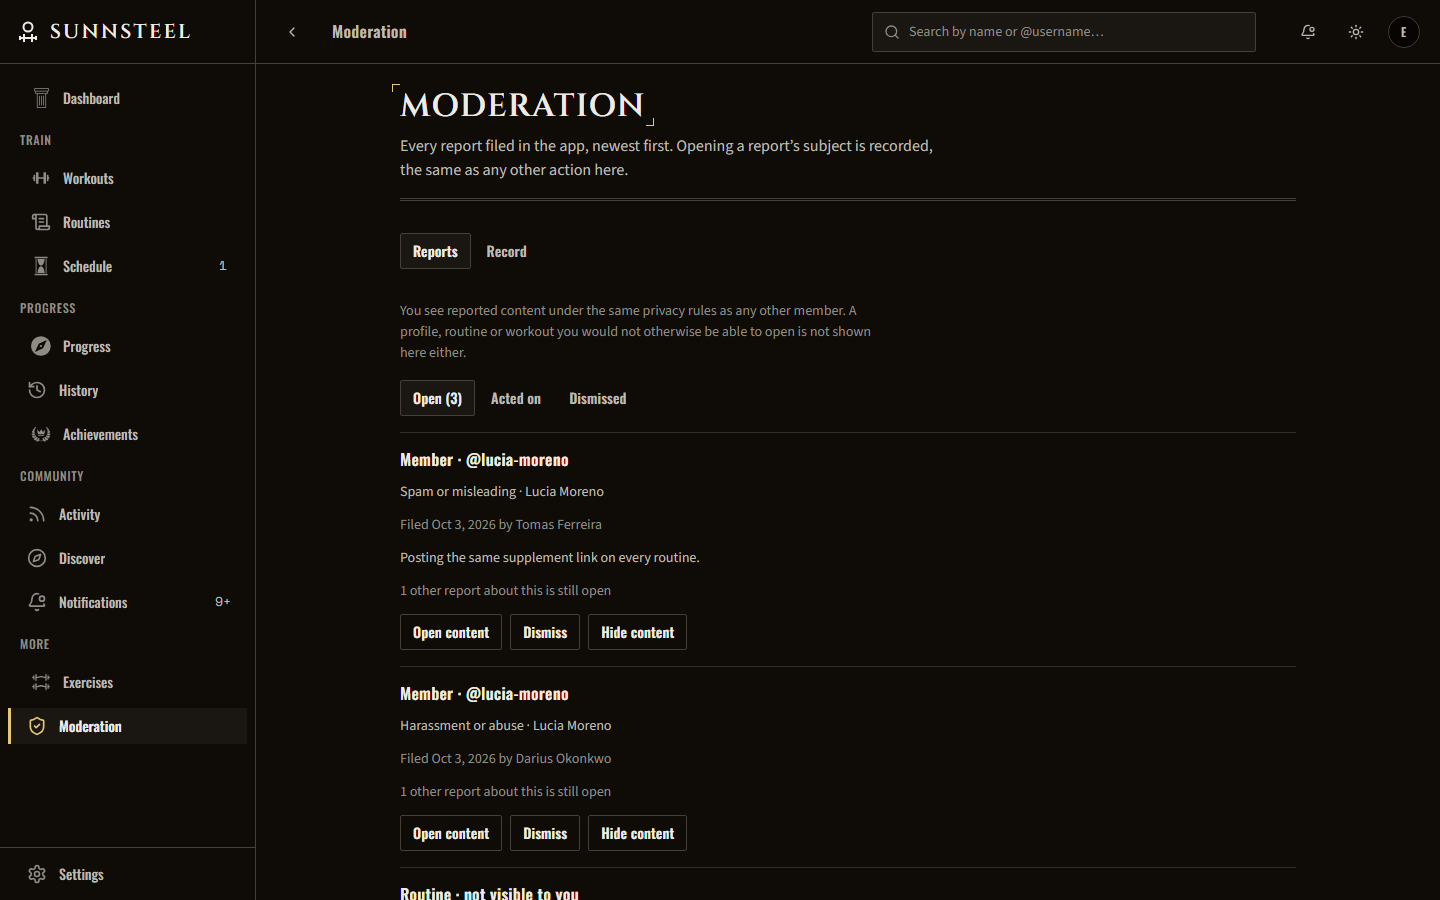
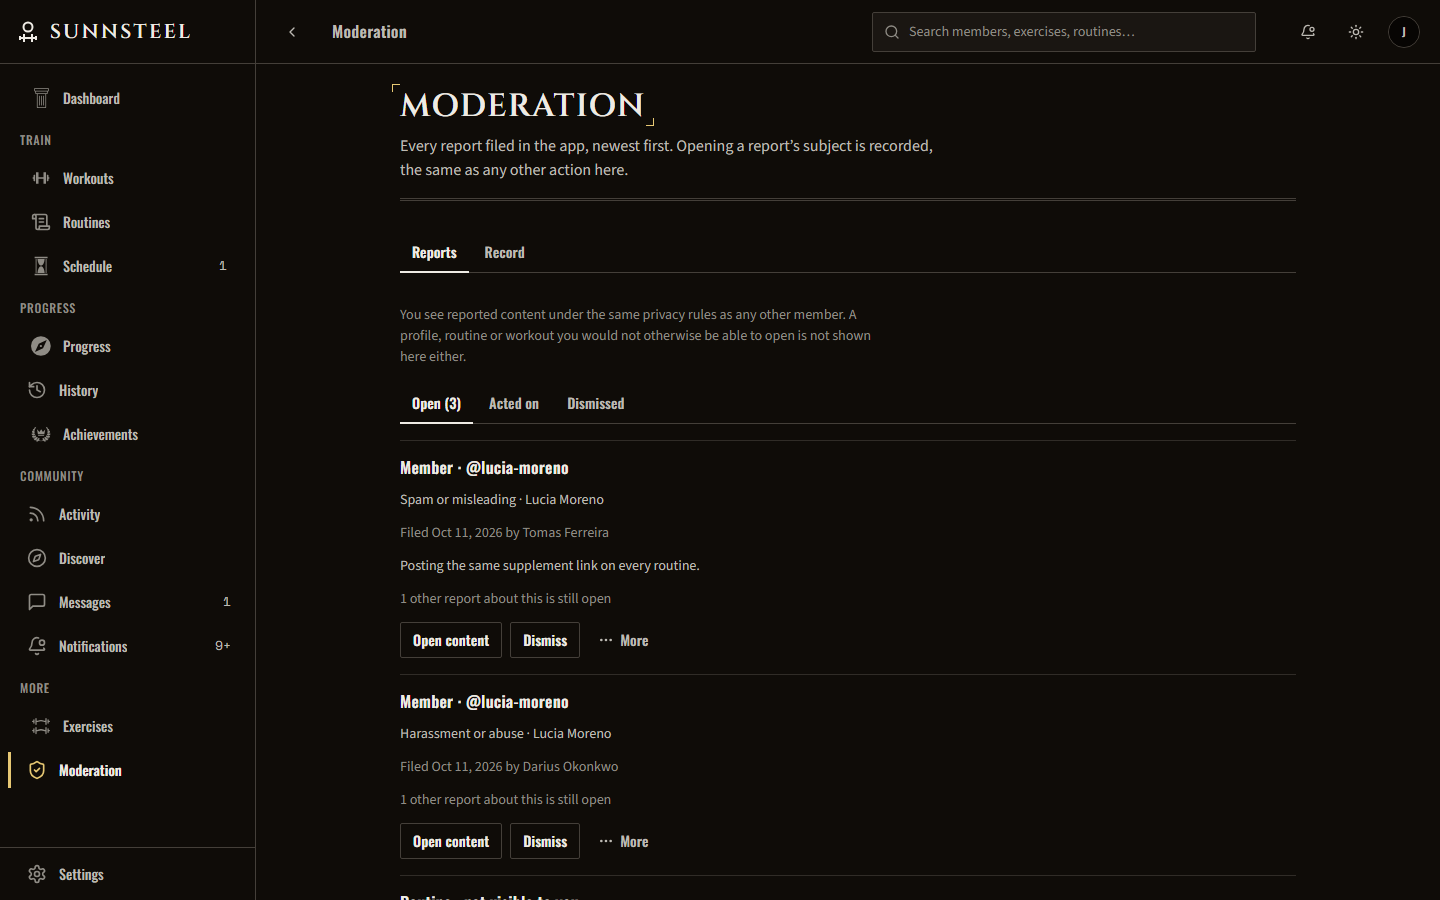
docs(roadmap): ship UX-26 and release its claim; recapture its frames

diff --git a/docs/roadmaps/product-roadmap.md b/docs/roadmaps/product-roadmap.md
@@ -79,7 +79,6 @@ else until it merges, so claims live here, on `main`.
 
 | ID      | Status        | Owner  | Branch / worktree | Claimed    | Repositories |
 | ------- | ------------- | ------ | ----------------- | ---------- | ------------ |
-| UX-26 | `IN_PROGRESS` | Claude | `claude/ux-26` (`.claude-worktrees/ux-26-fe`) | 2026-10-11 | FE |
 | LIVE-23 | `IN_PROGRESS` | Claude | `claude/live-23` (`.claude-worktrees/live-23-ct`, `live-23-be`; FE after `UX-26`) | 2026-10-11 | CT, BE, FE |
 
 ## Current product snapshot
@@ -693,7 +692,7 @@ languages, and Spanish runs longer.
 | LIVE-22 | `SHIPPED`     | M    | Train focus on the workout screen | Shipped 2026-10-09 from the owner-approved [UI/UX audit](../ui-audit-2026-10.md) §11 Phase B, under design system §27 "Train focus", now in force with its refinements recorded there. **The current exercise is the one box** (a panel with a 3px `--primary` mark; inside a group the group's rule carries it) and **the current set the one well** with bounded fields; done and upcoming rows are quiet fields that take the cell on focus, and their fills and Remove sit in the "Set N" menu. Exercises other than the current one are folded by default unless begun and unfinished, and one done at load starts folded; the member's own fold or open wins. **The prescription is said once** ([session-focus.ts](../../lib/utils/session-focus.ts): "3 × 6–8 · 57.5 kg · RIR 2 · rest 2:00") over one column header, so a row captions only what differs; below `sm` a row shows only its number. **A planned weight is a suggestion** (owner, 2026-10-08): the placeholder until the set is ticked, which logs it. Fields are never disabled while saving; Enter moves reps → weight → RPE and ticks, and **only a keyboard tick moves focus** to the next set, never a tap. Every field and tick is named by set and exercise. **Progress is one count with a 2px bar**; the elapsed time ticks on its own. **Finish** (owner, 2026-10-08) ends the list with Discard below `md` and sits in the masthead from it, outline until every required set is done; the "Complete all sets" notice is gone. **A superset or circuit is one container** headed with its round, each member naming its position. The glossary moved below the list. Fixed with it: the rest bar, fixed to the viewport, hid its countdown under the sidebar from `md` and is now sticky at the bottom of `<main>`; and under reduced motion `.mark-fill` drew the completion mark on every exercise. **Not met:** the audit's target of the first editable field within 300px at 390×844 -- it is about 440 (from about 510); §27.8 records why. | UX-24, LIVE-21 |
 | LIVE-23 | `IN_PROGRESS` | L    | Log a workout done before the routine existed | A member who recreates a programme they already followed records the workouts they did before the routine existed in Sunnsteel, on the routine's days and dates, as they lifted them. **Decided by the owner (2026-10-11):** a separate item from `ROUT-20` -- logging never moves an 8-week block's week and moving the week never records a workout; only dates before the routine was created, within a bounded lookback; a logged workout counts for the member -- history, schedule, volume, records, streaks, rank and milestones -- and never socially: no activity entry, partner alert, notification or comeback, and it reads "Logged later". It is a routine-day session with a snapshot (the reconstructed plan, an 8-week slot at the week the member names), never a free-form one (`LIVE-06`), runs no progression, and the history it lands in is replayed in order: a new analytics generation, milestones first reached in a replay recognized from history, and records it retires removed with what was built on them (TD-58). It can be removed, which replays again. | ROUT-20, DATA-05, LIVE-17 |
 | UX-25 | `SHIPPED`     | M    | Core workflows restructured | Shipped 2026-10-10 from the owner-approved [UI/UX audit](../ui-audit-2026-10.md) §11 Phase C, under design system §28 "Core workflows". **One filled control per region, and it is the task**: Create Routine on Routines (a card's Start and Resume are outline and its name opens the routine), the day due today on a routine's page, today's first action on Schedule (narrowing `SCHED-03`'s every-Start-outline), Train another day on Workouts, whose other three buttons became a ruled list of links. **A toggle is not a command**: `ToggleRow`/`ToggleOption` ([toggle-row.tsx](../../components/ui/toggle-row.tsx)) give every in-page choice -- views, ranges, breakdowns, statuses, filters -- §21.3's underline instead of the secondary fill, on eleven screens. **The builder** has one heading (the masthead names the page, the stepper the step) and one box per exercise: the step, the day and each set are ruled, where four boxes nested. **Mastheads name the page** (owner, 2026-10-08): Dashboard, History, Progress, New and Edit routine, the slogan as subtitle. **An archived routine is a status** (owner, 2026-10-09): the disabled Completed toggle and the Recent filter (identical to All) are gone, and Archived replaces Completed everywhere, in ink rather than success. Also: the sidebar's current row has no fill, the bottom bar uses the sidebar's glyphs, Notifications' Today section is translated, and a failed sign-in is a translated warning. The set row's steppers were already phone-only (`TD-50`). | UX-24 |
-| UX-26 | `IN_PROGRESS` | M    | Remaining screens on the shared states | Audit §11 Phase D: History rows as links with one summary line and `StatusMark`, the history error fallback, Progress empty states and heatmap values, Achievements errors, Moderation overflow, public-page spacing and units, Settings save model (owner, 2026-10-11: every card saves on change with a short confirmation, except the profile form, which keeps its one Save), and the shared empty, error and loading states everywhere. | UX-24 |
+| UX-26 | `SHIPPED`     | M    | Remaining screens on the shared states | Shipped 2026-10-11 from the owner-approved [UI/UX audit](../ui-audit-2026-10.md) §11 Phase D, under design system §28.6 and §28.7. **One way to say empty, failed and loading**: every section's failed read is `InlineError` with Try again (a training block's comparison printed the error's own message and an English "Retry"; moderation printed it in crimson), an empty one `EmptyModule` on the ruled ground, a one-line absence a plain line, and `LoadingRows` ([loading-rows.tsx](../../components/layout/loading-rows.tsx)) the one list skeleton; every labelled loading block is a busy status. Achievements says a failed read once, where its rank, comebacks and milestones rendered nothing. **History rows are links** with one summary line (when to the minute in the app's language, how long, how much, how many sets), and its English statuses are words, not COMPLETED and IN_PROGRESS. **Settings saves a choice when it is made** (owner, 2026-10-11): privacy, discovery and a partner's grants joined the cards that already did, and `SaveStatus` ([save-status.tsx](../../components/layout/save-status.tsx)) says Saving then Saved on every one; the forms and Activity sharing's defaults keep their Save. Also: a moderation row keeps two buttons and a More menu, a public member page picks units from the visitor's region (`visitor-units.ts`), the shared pages lose their doubled padding, the avatar has a visible Change photo button, and Settings' username field is a text field's width. The heatmap already printed its values, so B38 needed nothing. | UX-24 |
 
 ### Notifications and retention
 
@@ -1105,6 +1104,7 @@ decision. An ID is never reused.
 | 2026-10-09 | LIVE-22 | FE `app/[locale]/(protected)/workouts/sessions/[id]/page.tsx`, `features/workout/{set-log-input,exercise-group,session-header,session-action-card,rest-timer-bar}.tsx`, `hooks/{use-set-log-form,use-collapsible-exercises}.ts`, `lib/utils/session-focus.ts` (+ tests in both languages), `lib/utils/session-progress.utils.ts` (`weightIsSuggestion`), `components/ui/progress.tsx` (`value` reaches the Radix root, so the bar reports `aria-valuenow`), `app/globals.css` (`.mark-current`, `.mark-fill` scoped under reduced motion), `messages/{en,es}/workout.json`, `e2e/portfolio-targets.ts`; design system §27 in force with its record (§27.8); `npm run verify` 1137 tests; full sweep 677/677 in English on the final code (21.9m, 3 workers, no retries); Spanish scoped sweep (session routes, dashboard, progress, dialogs, keyboard focus) 76/85 with every failure the harness measuring before the page had loaded -- the same race failed 7 of 28 session cases on `main` with retries off, and a separate session is fixing the harness; portfolio `live-session`, `live-session-extra-set` and `live-session-set-kinds` recaptured | Built and checked on the John Doe test account against the local stack. Checked in a browser: the keyboard flow (focus to the next set in a single exercise and across a superset's members), an untouched suggestion logged as its weight, the superset container, Spanish at 320 with and without larger controls inside a superset (no clipped field, a typed "102.5" fitting), the 512px column at 768, and the rest bar with the sidebar open and collapsed. **Not verified:** the phone keyboard staying open after a tick on a real iPhone or Android phone, and a screen reader pass; both need a device. Two older defects surfaced in the frames and were fixed here (the rest bar under the sidebar, the reduced-motion completion mark on every exercise). |
 | 2026-10-10 | UX-25 | FE `components/ui/toggle-row.tsx` and its eleven call sites, `features/routines/components/{RoutineCard,RoutineScheduleNote,RoutineDayAccordion}.tsx`, `features/routines/hooks/useRoutineListActions.ts`, `app/[locale]/(protected)/routines/{page,components/WorkoutFilters,new/page,edit/[id]/page}.tsx`, `features/routines/wizard/**`, `app/[locale]/(protected)/workouts/page.tsx`, `features/schedule/schedule-week-view.tsx`, `features/shell/components/{Sidebar,BottomNav}.tsx`, `features/notifications/today-actions.tsx`, the login form, `messages/{en,es}`; design system §28; `npm run verify` 1137 tests; full sweep 677/677 in English and 677/677 in Spanish (2 workers, no retries); 17 portfolio frames recaptured after a re-seed | Checked in a browser on the John Doe test account at 1440 (dark, English) and 390 (light, Spanish): one filled control on each changed page, the toggle rows, the builder's one heading, the Archived status, no overflow. After the re-seed, with a workout due today, Schedule and the routine's page each held exactly one filled control, the Start of that day. Not exercised: a failed sign-in's warning (the sweep covers the page's layout, not the error branch). |
 | 2026-10-11 | ROUT-20 | CT `@sunsteel/contracts@0.95.0` (`lpAtStep`, `startLinearPeriodization(ref, cycle, step)`); BE tests only (`scripts/linear-periodization.test.ts`: stored at week 3's load, advancing from it, an estimate from week 8 alone, a block moved keeping its reference and earlier samples), 757 tests; FE `features/routines/wizard/components/{LinearBlockField,LinearBlockWeeks}.tsx`, `wizard/utils/linear-block.ts` (`withStep`, `runningLinearBlocks`, `sharedLinearStep`, `withAllLinearSteps`), `ReviewAndCreate.tsx`, `lib/utils/routine-versions.ts`, `messages/{en,es}/routines.json`, the `routine-builder-linear-block` portfolio target; `npm run verify` 1144 tests; scoped sweep 42/42 (`routines-new`, `routine-edit`, `routine-detail`, English) | Checked in a browser on :3100/:4100 against the shared local database with a scratch routine (two LP exercises, deleted after), in English and Spanish: the week select regenerates the working sets (week 3 at 69 % of 100 kg reads 70 kg), the review step lists both blocks and sets them to week 2, and the saved routine stored step 2 with 65 kg and 92.5 kg. Not verified: the Spanish sweep (the sweep opens only the wizard's first step, which this did not change), the portfolio frame (not recaptured), and production beyond the deploys. |
+| 2026-10-11 | UX-26 | FE `components/layout/{loading-rows,save-status}.tsx`, `features/workout/workout-history-list.tsx` and its route skeleton, the shared states across `features/progress`, `features/achievements`, Achievements' page, Activity, an exercise's page, Notifications, the schedule, moderation and the block comparison (25 loading blocks made busy statuses), `features/moderation/report-queue.tsx`, `features/settings/{profile-privacy,profile-discovery,training-partners,messaging,time-calendar}-*.tsx`, Settings' profile page, `lib/utils/visitor-units.ts` (+ tests), the public pages, `e2e/discover-ids.ts` (history rows are links), `messages/{en,es}`; design system §28.6 and §28.7; `npm run verify` 1141 tests; full sweep 673/677 in English with the 4 failures -- backend 500s while the machine ran short of memory, and the account's missing conversation -- passing on rerun, and 660/677 in Spanish with the 2 failures and 15 unrun cases, all in the interaction suites after the backend dropped, passing 60/60 on rerun; 5 portfolio frames recaptured after a re-seed | Checked in a browser on the John Doe test account at 1440 (dark, English) and 390 (light, Spanish): History's rows and statuses, a privacy choice saving with Saved and restored afterwards, moderation's two buttons and More, the Change photo button, no overflow. **Not exercised:** a public profile's units in a browser (John Doe's body metrics are not public; the rule is tested), and the failed states themselves, which need a failing backend. The sweep's backend fell over twice when the dev server reached 4 GB on a 16 GB machine with 1 GB free; restarting the dev server between runs kept it up. |
 
 ## Document history
 
@@ -2971,3 +2971,4 @@ decision. An ID is never reused.
 - **2026-10-11 (revision 259):** Claimed `ROUT-20` (contracts, frontend, backend tests): start an 8-week block at any week. The owner decided that starting at a later week and logging the workouts done before the routine existed are two separate items, `ROUT-20` first and `LIVE-23` after it, and that moving the week never records or infers a workout.
 - **2026-10-11 (revision 260):** Claimed `LIVE-23` (contracts, backend; the frontend after `UX-26` releases History): log a workout done before the routine existed, with the owner's decisions recorded on its row.
 - **2026-10-11 (revision 261):** Shipped `ROUT-20` (start an 8-week block at any week) and released its claim.
+- **2026-10-11 (revision 262):** Shipped `UX-26` (the remaining screens on the shared states) and released its claim; the 2026-10 audit's four phases are done.
